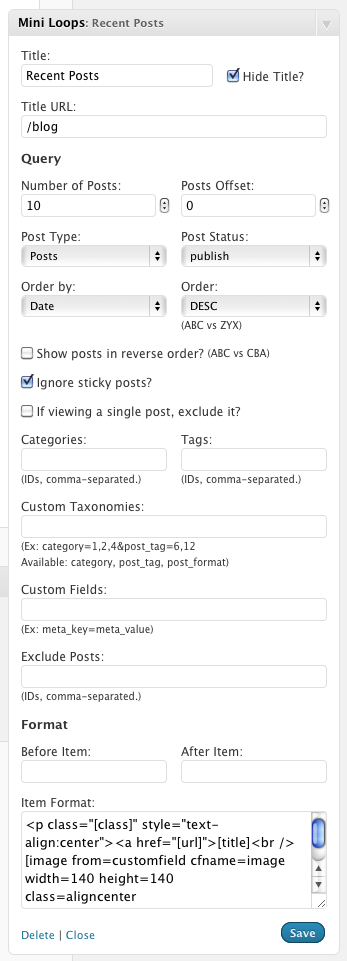
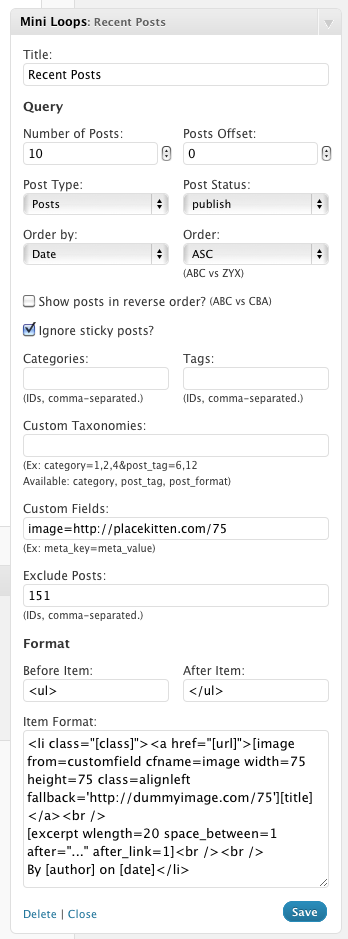
0.4 - allow getting first attachment
git-svn-id: http://plugins.svn.wordpress.org/mini-loops/trunk@401340 b8457f37-d9ea-0310-8a92-e5e31aec5664

diff --git a/helpers.php b/helpers.php
@@ -94,7 +94,7 @@ function get_miniloops( $args = '' ) {
 
 	while ( $miniloop->have_posts() ) : $miniloop->the_post();
 		
-		$post_format = get_post_format( get_the_ID() );
+    $post_format = function_exists('get_post_format') ? get_post_format( get_the_ID() ) : 'standard';
 		
 		$item_format_to_use = apply_filters( 'miniloops_item_format', $item_format, $post_format );
 
@@ -259,6 +259,15 @@ function miniloop_image( $atts ) {
 			if ( has_post_thumbnail( $post->ID ) )
 			$img = get_the_post_thumbnail( $post->ID, array( $width, $height ), array( 'class' => $class ) );			
 		break;
+		case 'attached' :
+			$atts = get_children( array( 'post_parent' => $post->ID, 'post_type' => 'attachment' ) );
+			foreach( $atts as $a ) {
+				//make sure we don't grab the wrong file type
+				if ( strpos( $a->post_mime_type, 'image/' ) !== false ) {
+					$img = wp_get_attachment_image( $a->ID, array( $width, $height ), array( 'class' => $class ) );
+				}
+			}
+		break;
 		case 'customfield' :
 			if (empty($cfname)) break;
 			$img = get_post_meta( $post->ID, $cfname, true );
@@ -291,7 +300,7 @@ function miniloop_image( $atts ) {
 
 		break;
 	}
-	
-	$fallback = '<img src="' . $fallback . '" alt="" width="' . $width . '" height="' . $height . '" class="' . $class . '" />';
+
+	$fallback = !empty($fallback) ? '<img src="' . $fallback . '" alt="" width="' . $width . '" height="' . $height . '" class="' . $class . '" />' : '';
 	return (!$img || empty($img)) ? $fallback : $img;
 }

diff --git a/mini-loops.php b/mini-loops.php
@@ -3,7 +3,7 @@
 Plugin Name: Mini Loops
 Plugin URI: http://trepmal.com/plugins/mini-loops/
 Description: Query posts and display them where you want
-Version: 0.3
+Version: 0.4
 Author: Kailey Lampert
 Author URI: http://kaileylampert.com
 */
